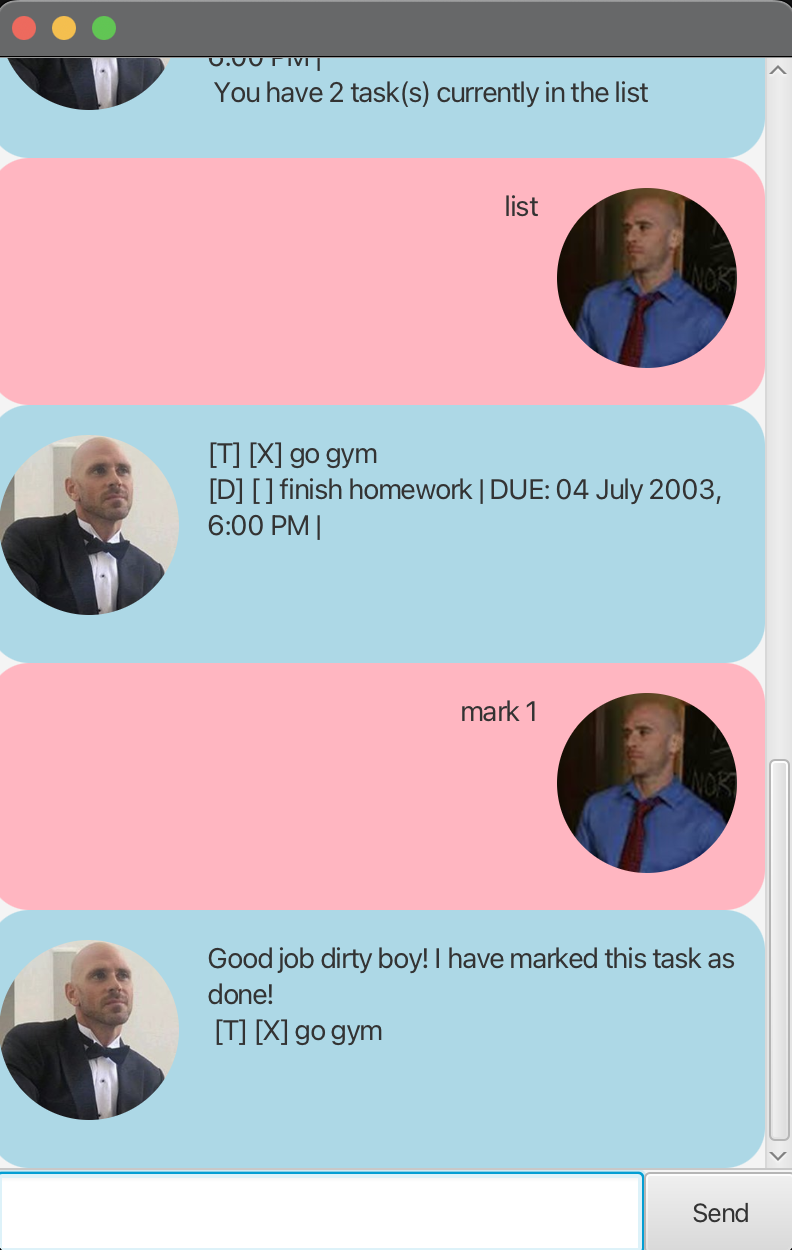
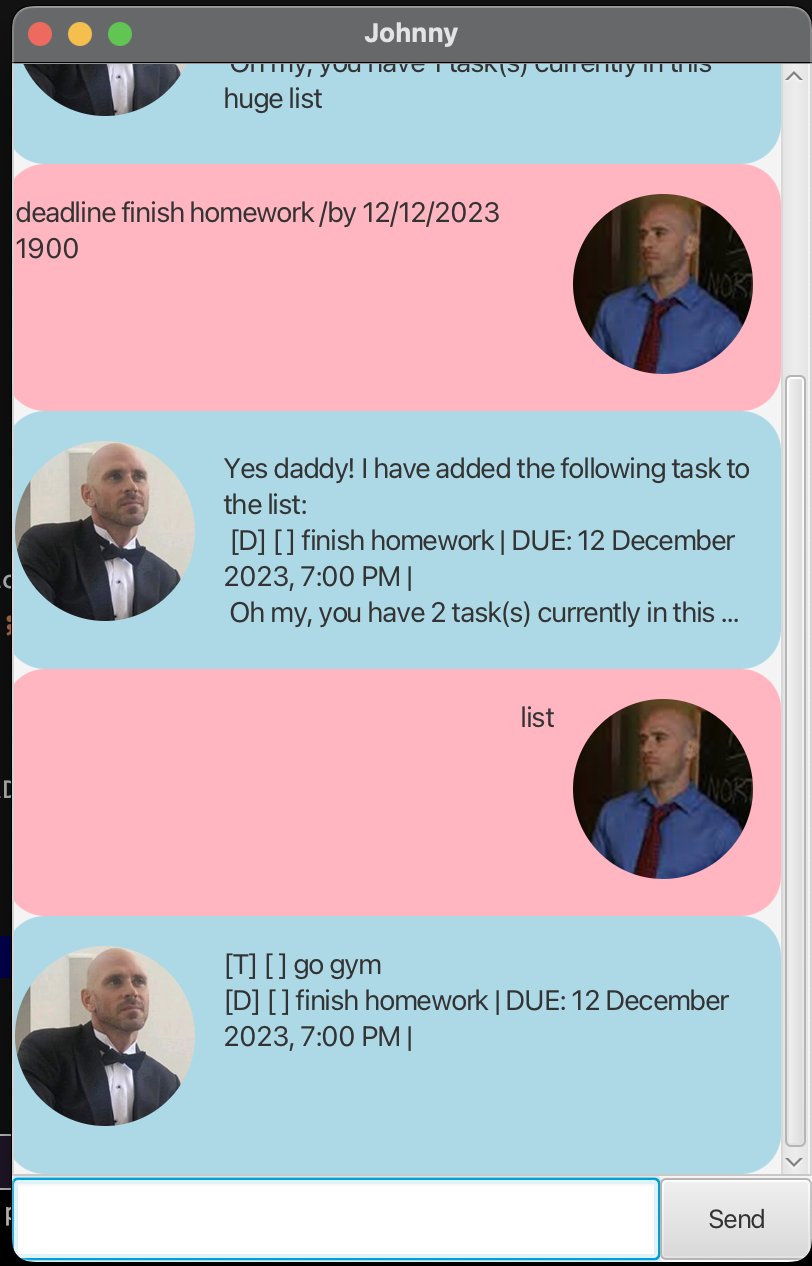
Add title to window and update Ui pic

diff --git a/src/main/java/gui/Main.java b/src/main/java/gui/Main.java
@@ -22,6 +22,7 @@ public class Main extends Application {
             FXMLLoader fxmlLoader = new FXMLLoader(Main.class.getResource("/view/MainWindow.fxml"));
             AnchorPane ap = fxmlLoader.load();
             Scene scene = new Scene(ap);
+            stage.setTitle("Johnny");
             stage.setScene(scene);
             fxmlLoader.<MainWindow>getController().setDuke(duke);
             stage.show();
